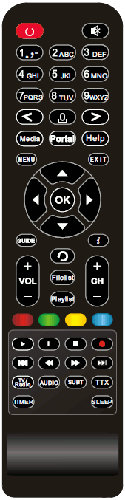
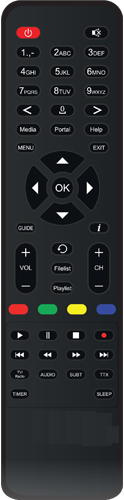
add E4HD

diff --git a/BoxBranding/remotes/e4hd/remote.html b/BoxBranding/remotes/e4hd/remote.html
@@ -1,0 +1,55 @@
+<img border='0' src='static/remotes/e4hd/rc.png' usemap='#map' >
+<map name="map">
+	<area shape="circle" coords="89,47,12" alt="Power" onclick="pressMenuRemote('116');">
+	<area shape="circle" coords="30,86,12" alt="1" onclick="pressMenuRemote('2');">
+	<area shape="circle" coords="59,86,12" alt="2" onclick="pressMenuRemote('3');">
+	<area shape="circle" coords="88,86,12" alt="3" onclick="pressMenuRemote('4');">
+	<area shape="circle" coords="30,104,12" alt="4" onclick="pressMenuRemote('5');">
+	<area shape="circle" coords="59,104,12" alt="5" onclick="pressMenuRemote('6');">
+	<area shape="circle" coords="88,104,12" alt="6" onclick="pressMenuRemote('7');">
+	<area shape="circle" coords="30,122,12" alt="7" onclick="pressMenuRemote('8');">
+	<area shape="circle" coords="59,122,12" alt="8" onclick="pressMenuRemote('9');">
+	<area shape="circle" coords="88,122,12" alt="9" onclick="pressMenuRemote('10');">
+	<area shape="circle" coords="30,139,12" alt="previous" onclick="pressMenuRemote('412');">
+	<area shape="circle" coords="59,139,12" alt="0" onclick="pressMenuRemote('11');">
+	<area shape="circle" coords="88,139,12" alt="next" onclick="pressMenuRemote('407');">
+	<area shape="circle" coords="24,161,10" alt="red" onclick="pressMenuRemote('398');">
+	<area shape="circle" coords="47,161,10" alt="green" onclick="pressMenuRemote('399');">
+	<area shape="circle" coords="70,161,10" alt="yellow" onclick="pressMenuRemote('400');">
+	<area shape="circle" coords="93,161,10" alt="blue" onclick="pressMenuRemote('401');">
+	<area shape="circle" coords="26,195,10" alt="menu" onclick="pressMenuRemote('139');">
+	<area shape="circle" coords="46,181,10" alt="epg" onclick="pressMenuRemote('365');">
+	<area shape="circle" coords="72,181,10" alt="info" onclick="pressMenuRemote('358');">
+	<area shape="circle" coords="93,194,10" alt="exit" onclick="pressMenuRemote('174');">
+	<area shape="circle" coords="59,202,12" alt="up" onclick="pressMenuRemote('103');">
+	<area shape="circle" coords="59,244,12" alt="down" onclick="pressMenuRemote('108');">
+	<area shape="circle" coords="38,223,12" alt="left" onclick="pressMenuRemote('105');">
+	<area shape="circle" coords="80,223,12" alt="right" onclick="pressMenuRemote('106');">
+	<area shape="circle" coords="59,222,15" alt="OK" onclick="pressMenuRemote('352');">
+	<area shape="circle" coords="29,268,15" alt="volume up" onclick="pressMenuRemote('115');">
+	<area shape="circle" coords="29,291,15" alt="volume down" onclick="pressMenuRemote('114');">
+	<area shape="circle" coords="59,267,10" alt="mute" onclick="pressMenuRemote('113');">
+	<area shape="circle" coords="59,283,12" alt="filelist" onclick="pressMenuRemote('393');">
+	<area shape="circle" coords="59,299,12" alt="playlist" onclick="pressMenuRemote('395');">
+	<area shape="circle" coords="88,268,10" alt="channel up" onclick="pressMenuRemote('402');">
+	<area shape="circle" coords="88,291,10" alt="channel down" onclick="pressMenuRemote('403');">
+	<area shape="circle" coords="30,319,12" alt="rewind" onclick="pressMenuRemote('168');">
+	<area shape="circle" coords="59,319,12" alt="play" onclick="pressMenuRemote('207');">
+	<area shape="circle" coords="59,319,12" alt="pause" onclick="pressMenuRemote('119');">
+	<area shape="circle" coords="88,319,12" alt="forward" onclick="pressMenuRemote('208');">
+	<area shape="circle" coords="30,335,12" alt="record" onclick="pressMenuRemote('167');">
+	<area shape="circle" coords="59,335,12" alt="stop" onclick="pressMenuRemote('128');">
+	<area shape="circle" coords="88,335,12" alt="jump" onclick="pressMenuRemote('519');">
+	<area shape="circle" coords="30,352,12" alt="timeshift" onclick="pressMenuRemote('359');">
+	<area shape="circle" coords="59,352,12" alt="mark" onclick="pressMenuRemote('834');">
+	<area shape="circle" coords="88,352,12" alt="search" onclick="pressMenuRemote('535');">
+	<area shape="circle" coords="30,370,12" alt="timer" onclick="pressMenuRemote('362');">
+	<area shape="circle" coords="59,370,12" alt="pip" onclick="pressMenuRemote('375');">
+	<area shape="circle" coords="88,370,12" alt="vkey" onclick="pressMenuRemote('393');">
+	<area shape="circle" coords="30,388,12" alt="text" onclick="pressMenuRemote('388');">
+	<area shape="circle" coords="88,388,12" alt="subtitle" onclick="pressMenuRemote('370');">
+	<area shape="circle" coords="28,46,12" alt="audio" onclick="pressMenuRemote('392');">
+	<area shape="circle" coords="29,67,12" alt="tv" onclick="pressMenuRemote('377');">
+	<area shape="circle" coords="59,67,12" alt="radio" onclick="pressMenuRemote('385');">
+	<area shape="circle" coords="90,68,12" alt="help" onclick="pressMenuRemote('138');">
+</map>

diff --git a/BoxBranding/RcModel.py b/BoxBranding/RcModel.py
@@ -54,6 +54,8 @@ class RcModel:
 			remotefolder = 'red1'
 		elif boxtype in ('odin2hybrid'):
 			remotefolder = 'ax1'
+		elif boxtype in ('e4hd'
+			remotefolder = 'e4hd'
 		elif boxtype in ('enibox'):
 			remotefolder = 'hdbox'
 		elif boxtype in ('mago'):
